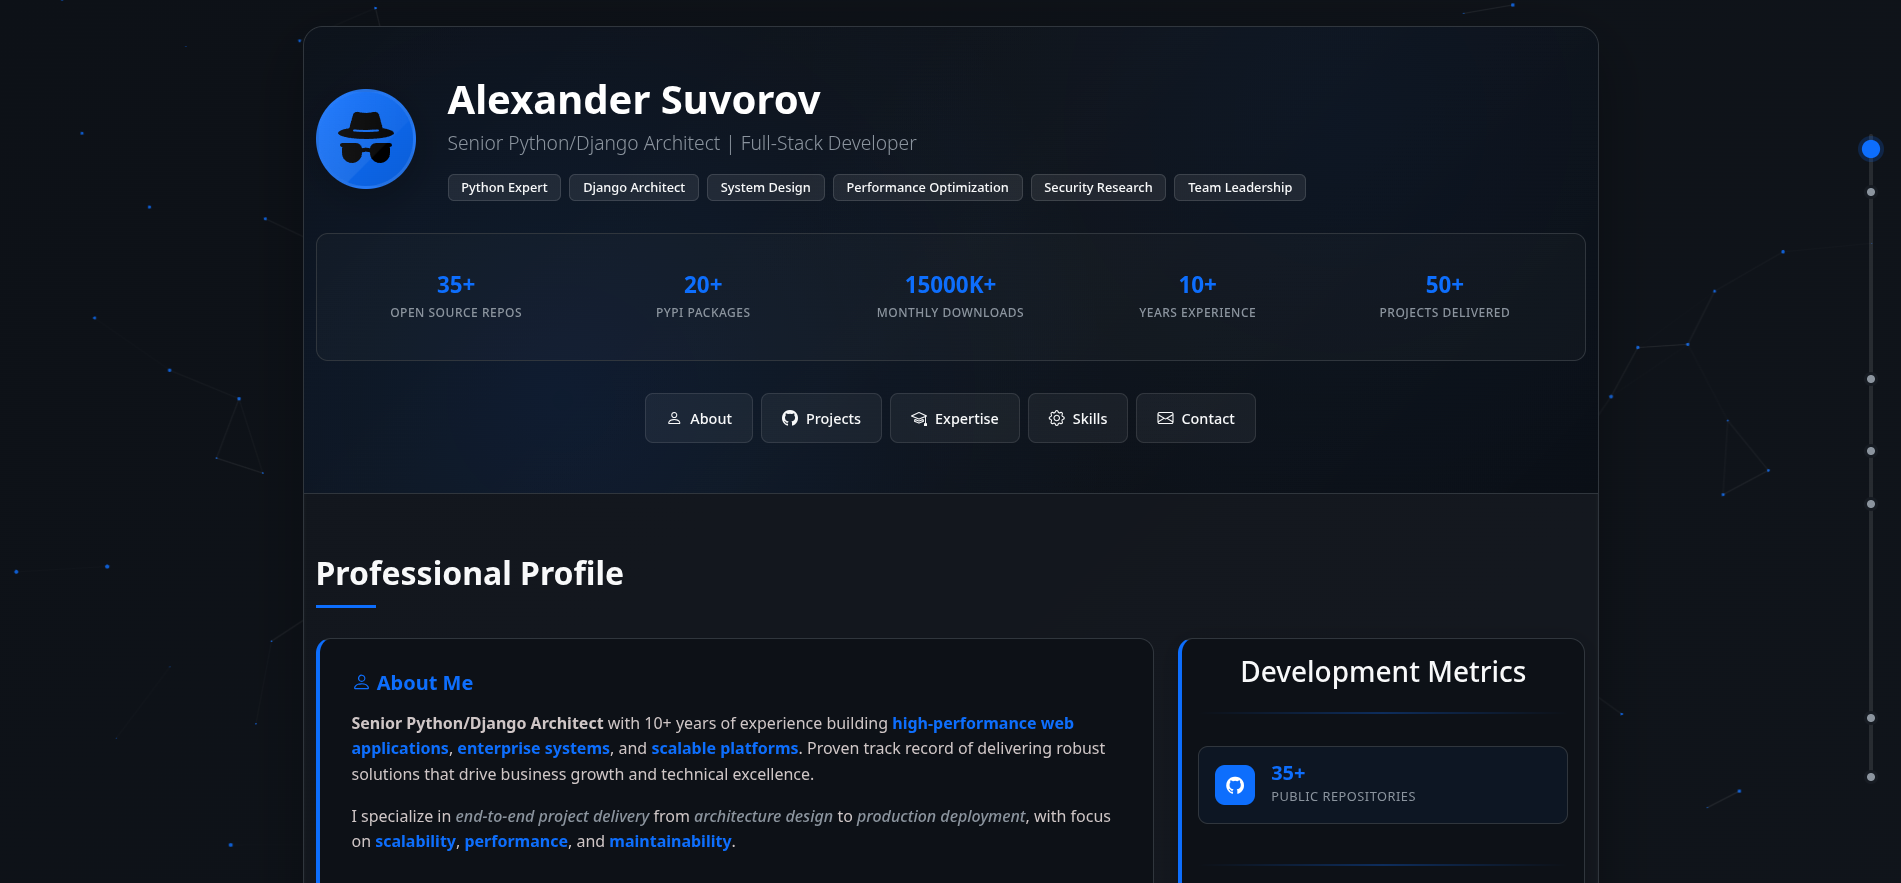
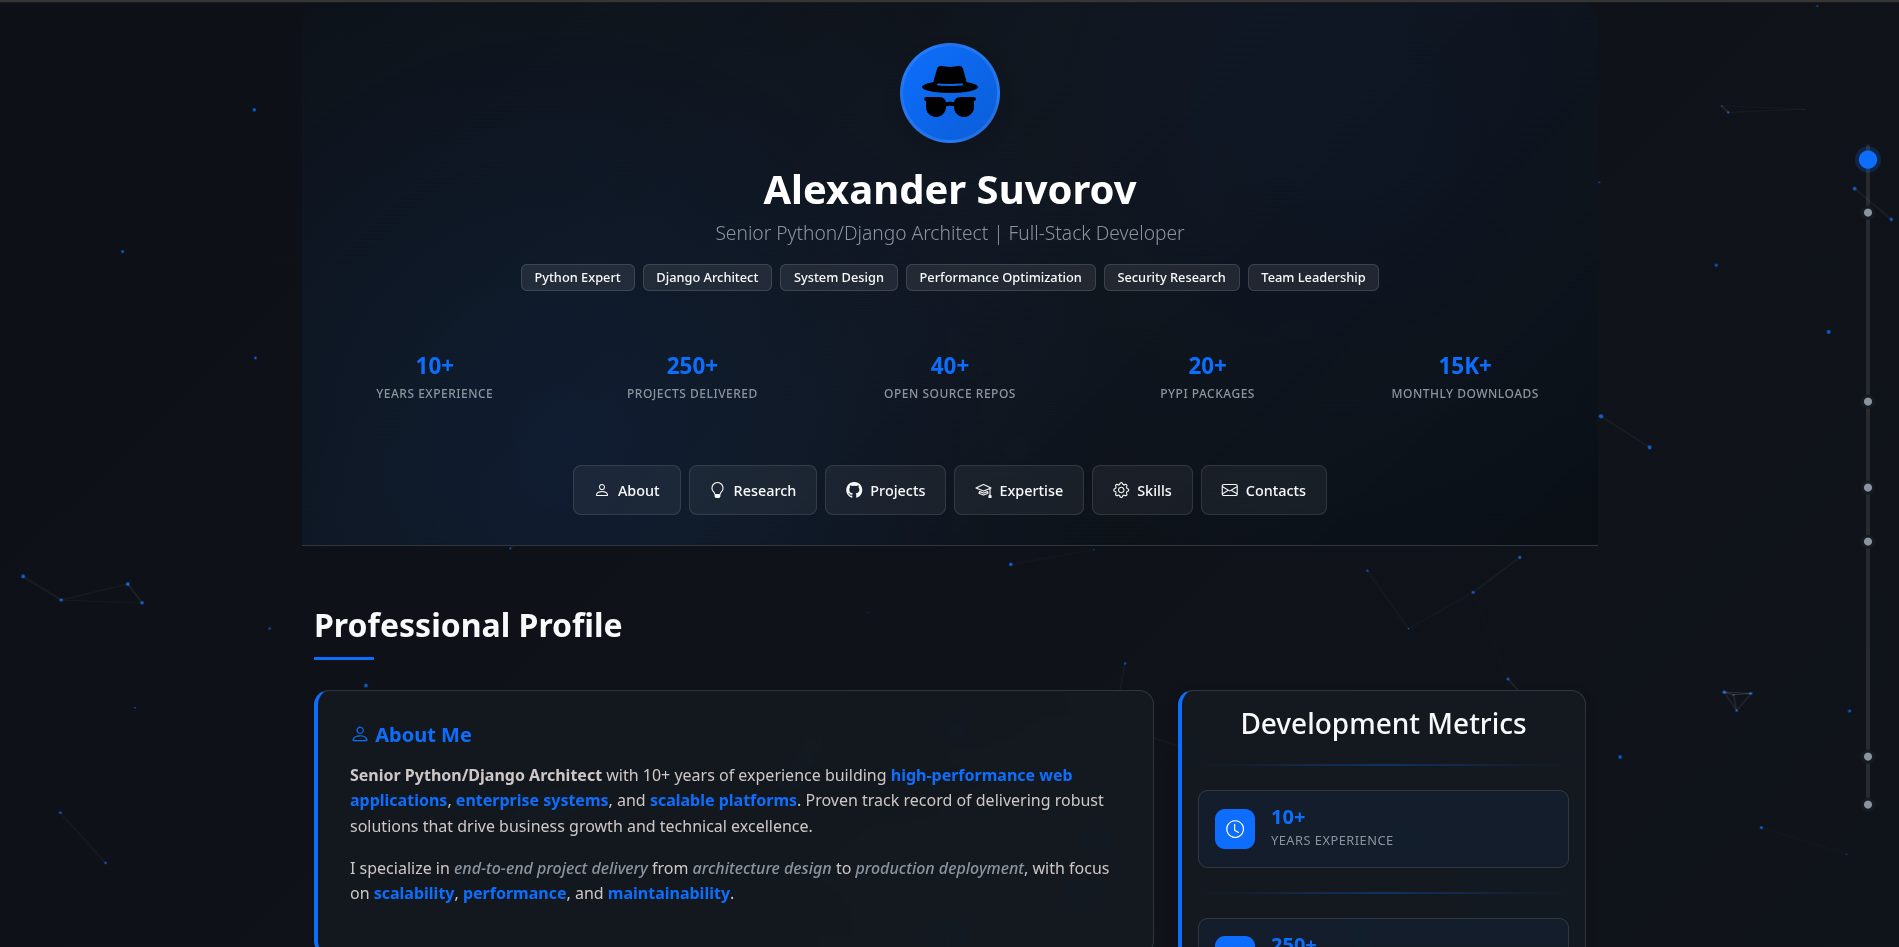
smartlegionlab.ru v2.2.6

diff --git a/index.html b/index.html
@@ -109,6 +109,10 @@
                             <i class="bi bi-person" aria-hidden="true"></i>
                             <span>About</span>
                         </a>
+                        <a href="#research" class="nav-btn" aria-label="Go to Research section">
+                            <i class="bi bi-lightbulb" aria-hidden="true"></i>
+                            <span>Research</span>
+                        </a>
                         <a href="#repositories" class="nav-btn" aria-label="Go to Repositories section">
                             <i class="bi bi-github" aria-hidden="true"></i>
                             <span>Projects</span>
@@ -123,7 +127,7 @@
                         </a>
                         <a href="#contact" class="nav-btn" aria-label="Go to Contact section">
                             <i class="bi bi-envelope" aria-hidden="true"></i>
-                            <span>Contact</span>
+                            <span>Contacts</span>
                         </a>
                     </nav>
                 </div>

diff --git a/README.md b/README.md
@@ -109,5 +109,4 @@ The website represents a modern technical portfolio that combines professional p
 
 ---
 
-![Research Portfolio](https://github.com/smartlegionlab/smartlegionlab.github.io/blob/master/data/images/technical_portfolio.png)
-
+![Technical Portfolio](https://github.com/smartlegionlab/smartlegionlab.github.io/blob/master/data/images/technical_portfolio.png)
